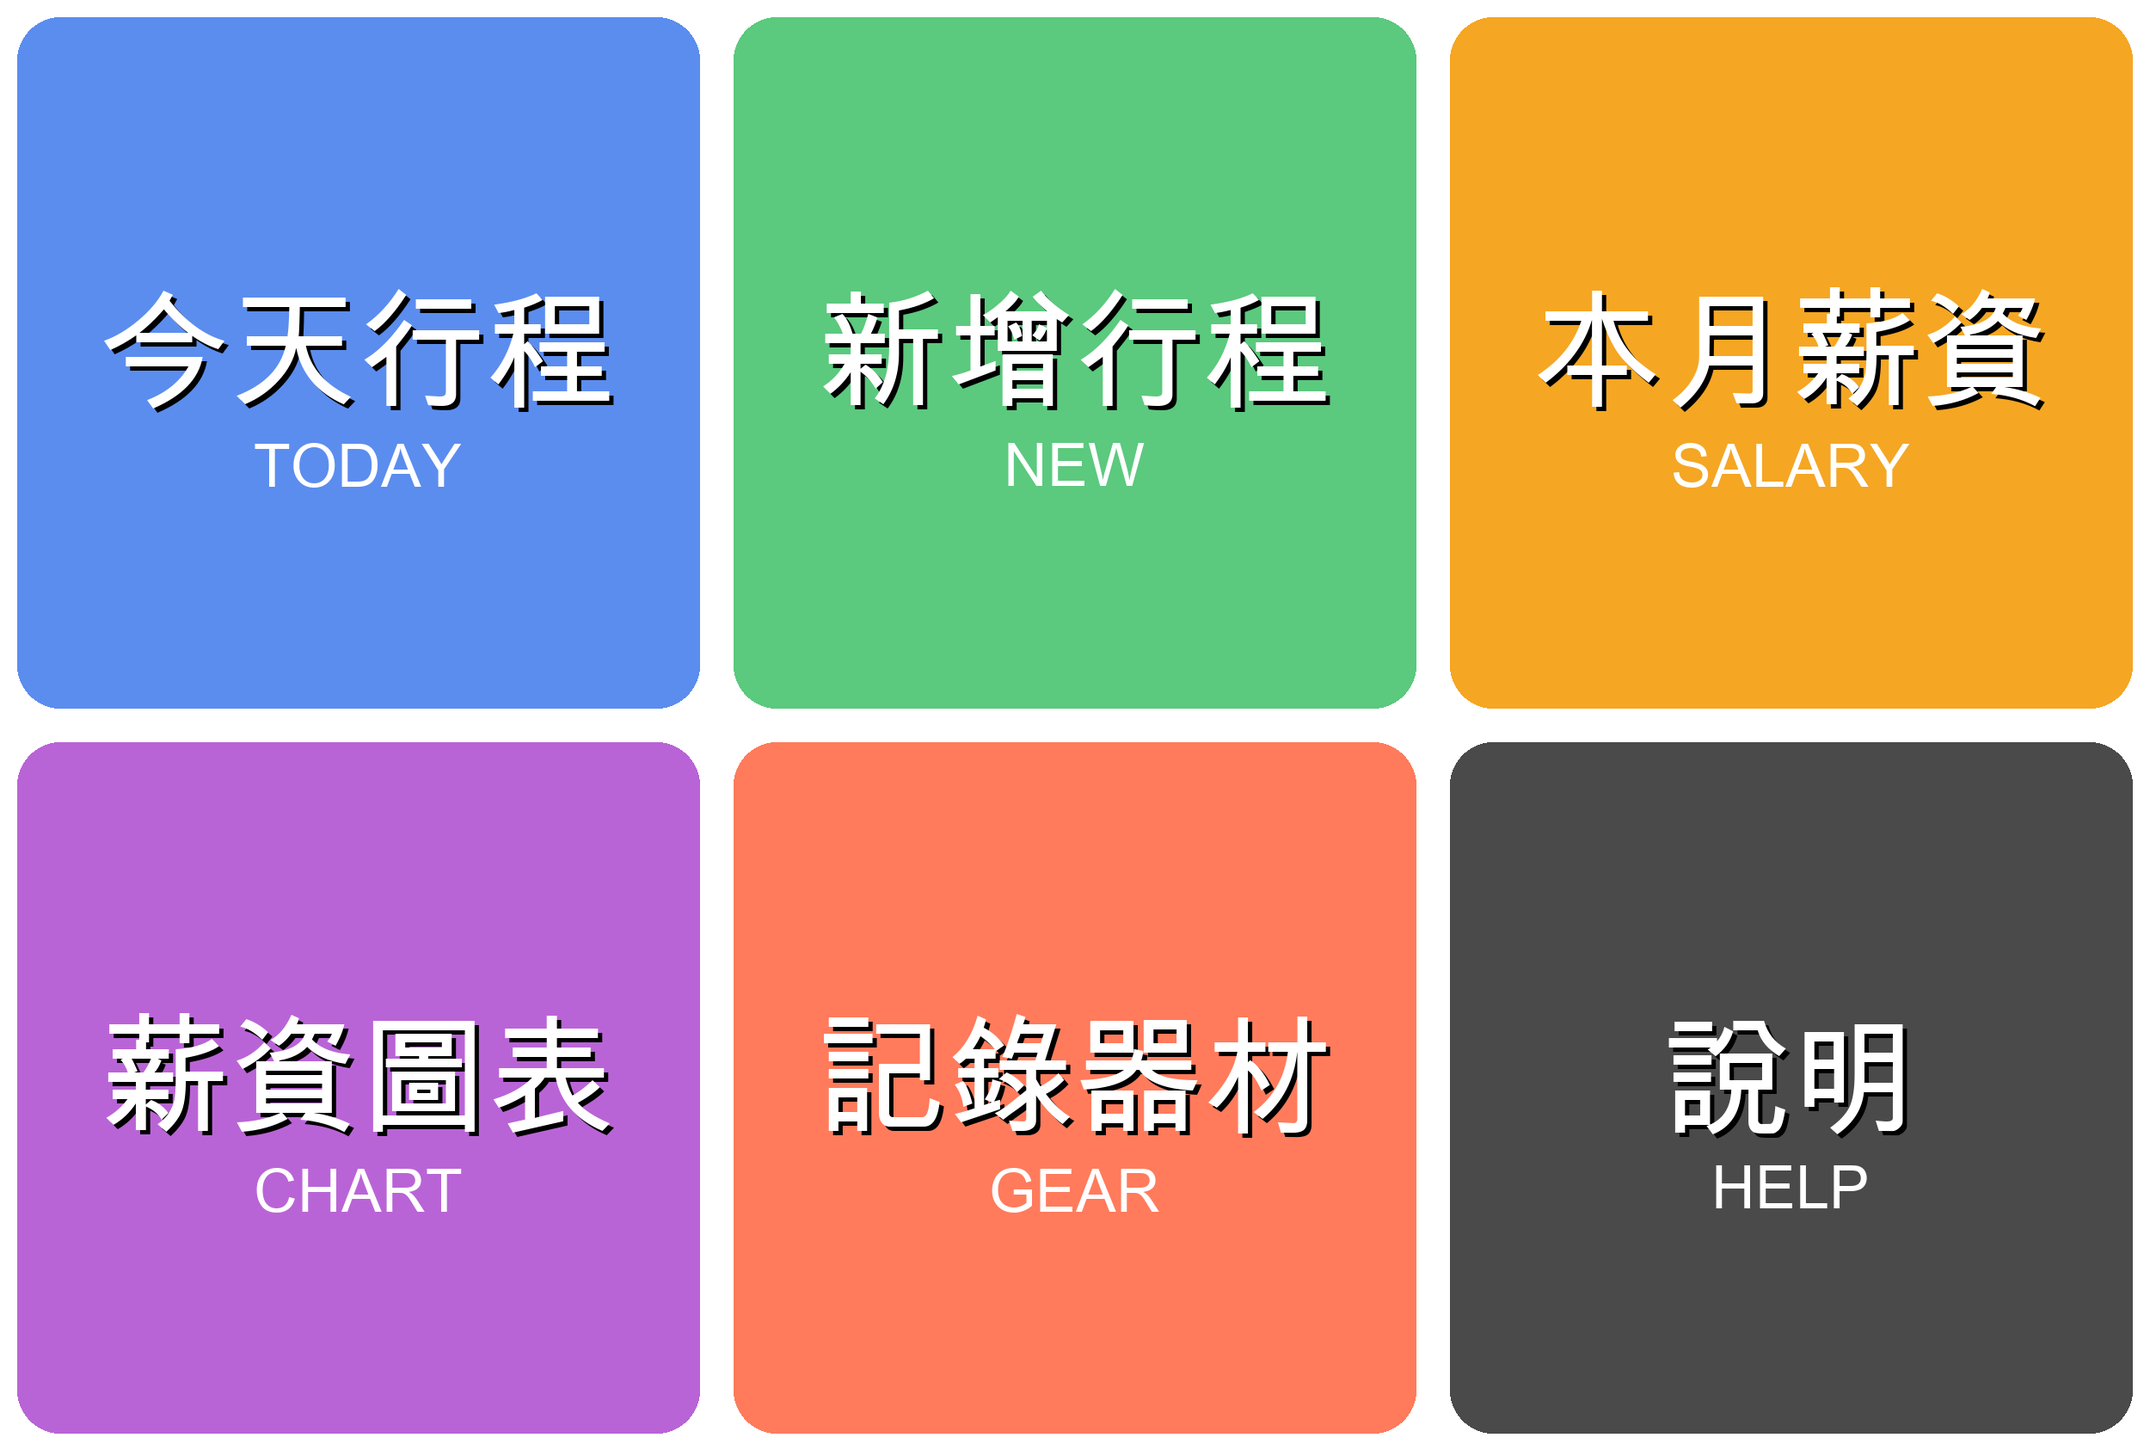
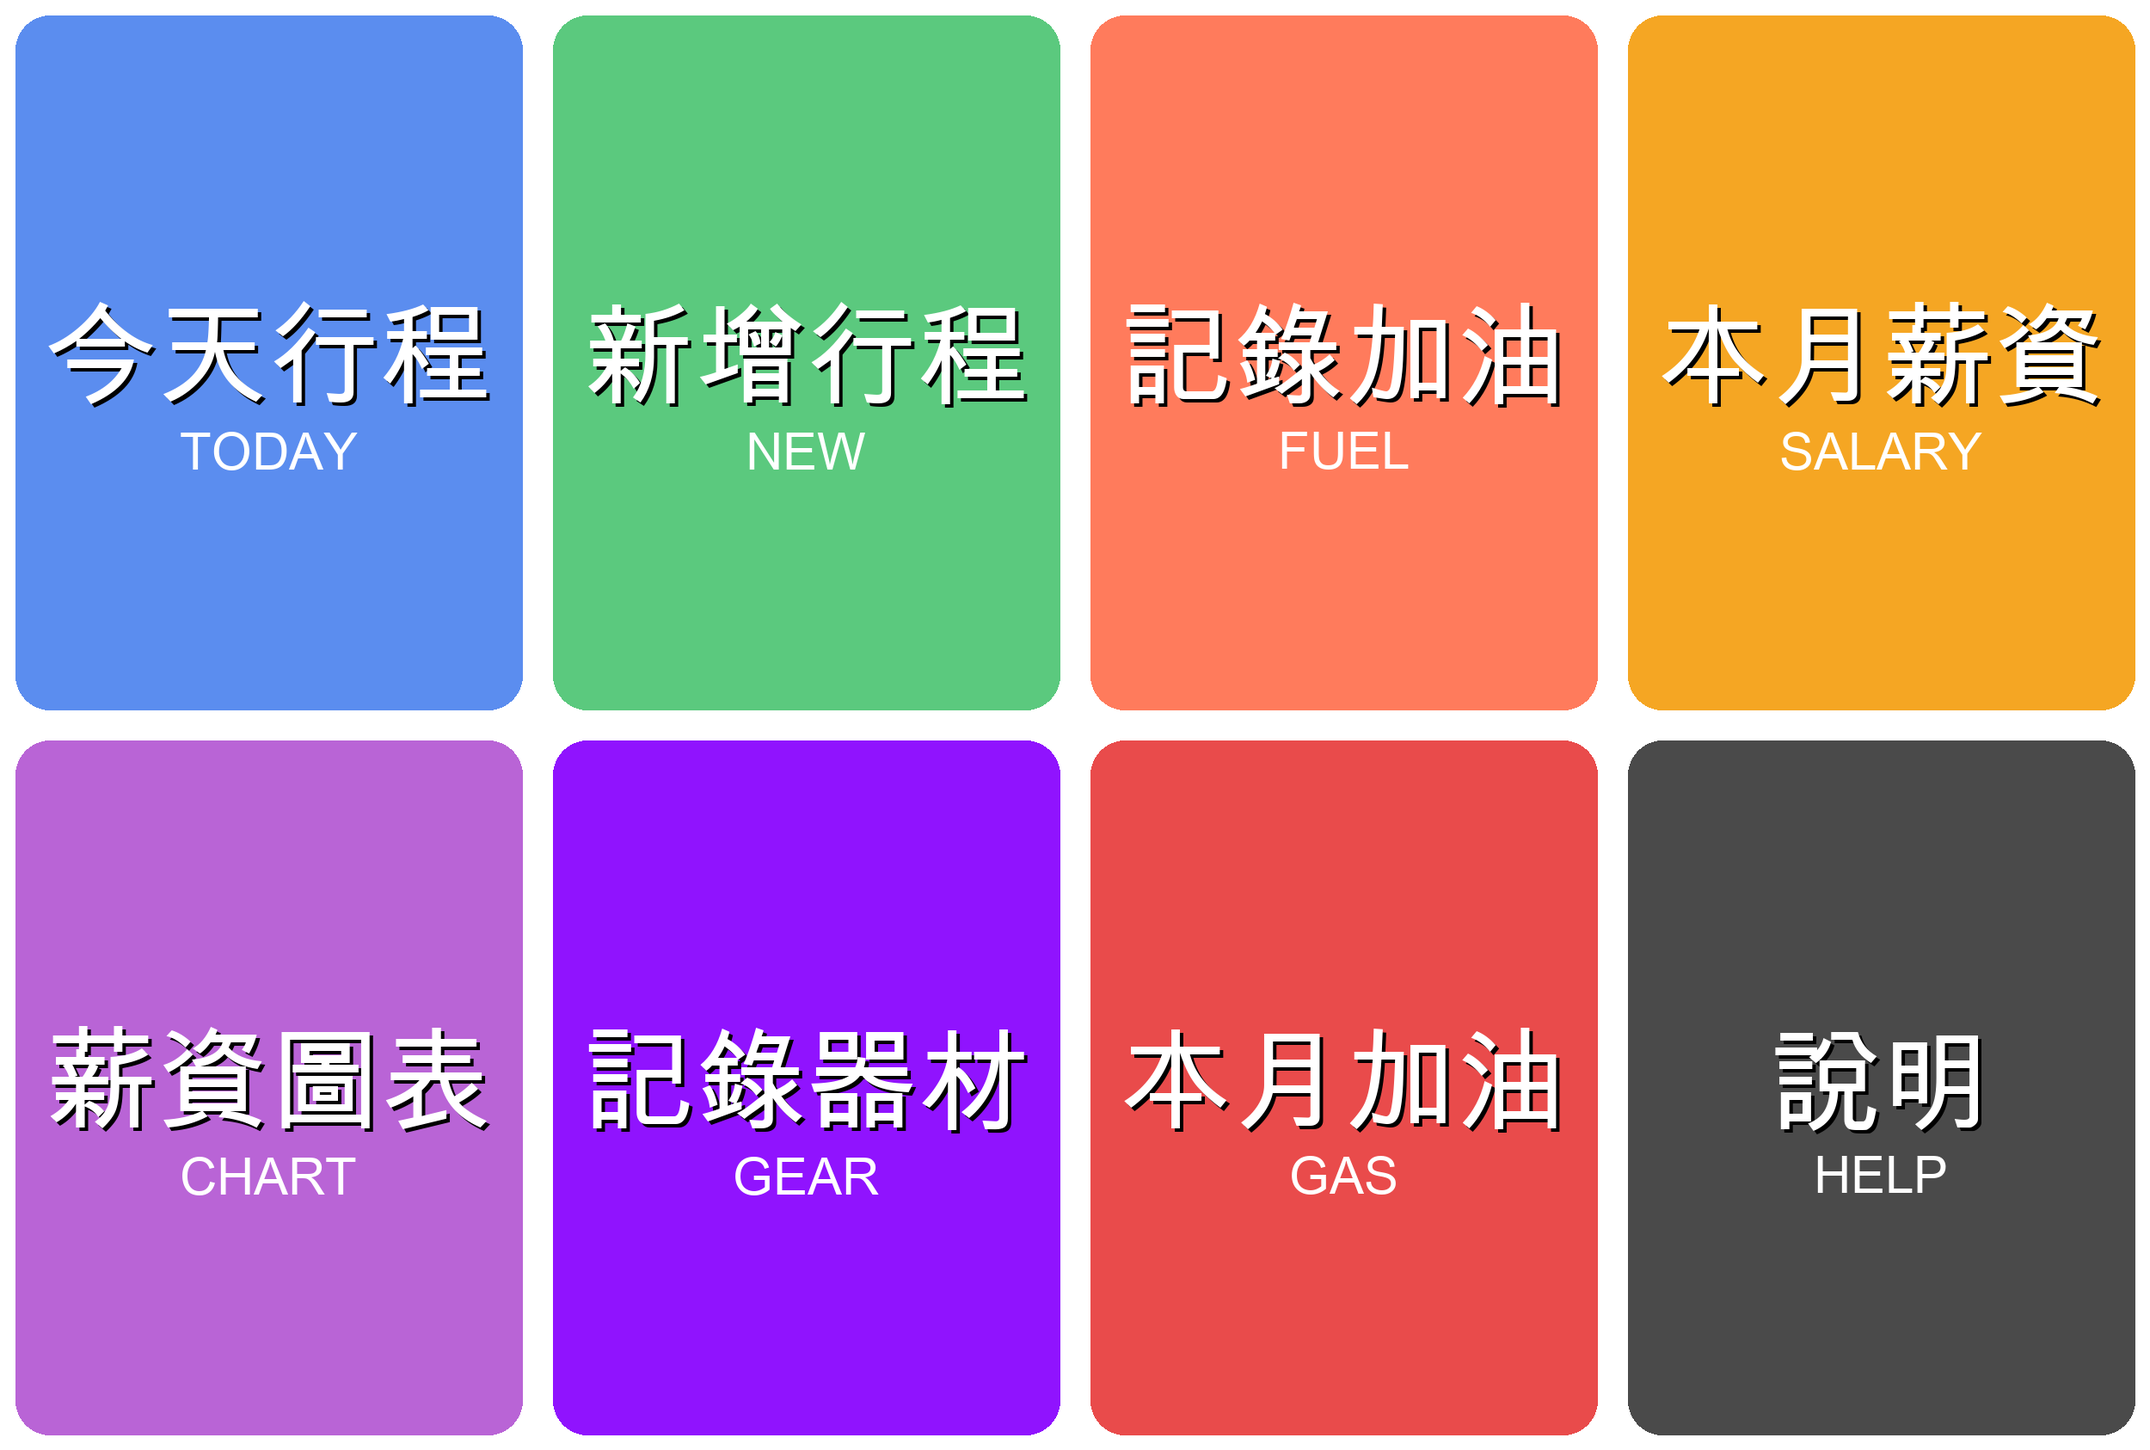
v3 升級：加油記錄 + 淨薪計算 + Rich Menu 4x2 八格
加油功能：
- 新增 fuel.py：寫入 Google Sheets「加油」分頁
- 互動式記錄流程：里程 → 油量 → 金額 → 加油站
- 「本月加油」摘要：每筆 + 總額 + 平均油耗 km/L

薪資升級：
- monthly_summary 加入毛薪/油費/淨薪計算
- monthly_chart 視覺長條圖含油費對比

Rich Menu：
- 3x2 升級為 4x2（8 格）
- 新增「記錄加油」「本月加油」按鈕
- 整體配色更豐富

diff --git a/main.py b/main.py
@@ -20,6 +20,7 @@ from calendar_add import add_event
 from calendar_delete import list_upcoming, delete_event, find_and_delete
 from ai_chat import ask_ai
 from salary import monthly_summary, list_prices, monthly_chart
+from fuel import save_fuel, monthly_summary as fuel_monthly_summary, monthly_total as fuel_monthly_total
 
 app = Flask(__name__)
 configuration = Configuration(access_token=os.environ['LINE_CHANNEL_ACCESS_TOKEN'])
@@ -78,8 +79,12 @@ def process(user_id, text):
             '🔸 刪除行程 → 列出可刪行程\n'
             '🔸 刪除行程 5/27 16:15 輔大自主課（直接刪）\n\n'
             '💰 薪資\n'
-            '🔸 本月薪資 / 上月薪資\n'
+            '🔸 本月薪資 / 上月薪資（含淨薪）\n'
+            '🔸 薪資圖表 → 視覺化\n'
             '🔸 價目表 → 查目前價格設定\n\n'
+            '⛽ 加油\n'
+            '🔸 記錄加油 → 開始新增\n'
+            '🔸 本月加油 → 月度摘要 + 油耗\n\n'
             '🧰 器材記錄\n'
             '🔸 記錄器材 → 開始新增\n'
             '🔸 查看記錄 → 最近5筆\n'
@@ -103,6 +108,13 @@ def process(user_id, text):
 
     if text in ('薪資圖表', '圖表', '本月圖表', '薪資視覺化', '視覺化'):
         return monthly_chart()
+
+    if text in ('本月加油', '加油記錄', '查加油', '看加油'):
+        return fuel_monthly_summary()
+
+    if text in ('記錄加油', '紀錄加油', '加油', '新增加油'):
+        db.set_state(user_id, 'waiting_fuel_mileage', None, None)
+        return '⛽ 開始記錄加油\n\n1⃣ 目前里程？（例如：56000）'
 
     if text in ('今天行程', '今天', '查行程', '行程', '今日行程'):
         return query_schedule(0)
@@ -163,6 +175,8 @@ def process(user_id, text):
             return monthly_summary(prev.year, prev.month)
         if keyword in ('價目表', '價格'):
             return list_prices()
+        if keyword in ('加油', '本月加油', '油費'):
+            return fuel_monthly_summary()
         return search_records(user_id, keyword)
 
     if text in ('刪除最後一筆', '刪除'):
@@ -205,6 +219,52 @@ def process(user_id, text):
         db.clear_state(user_id)
         return '已取消刪除。'
 
+    if state == 'waiting_fuel_mileage':
+        try:
+            mileage = int(float(text.replace(',', '').replace('km', '').strip()))
+        except ValueError:
+            return '⚠ 里程要是數字，例如：56000\n（或說「取消」中止）'
+        db.set_state(user_id, 'waiting_fuel_liters', _json.dumps({'mileage': mileage}), None)
+        return f'✅ 里程：{mileage:,} km\n\n2⃣ 加了幾公升？（例如：38）'
+
+    if state == 'waiting_fuel_liters':
+        try:
+            liters = float(text.replace('L', '').replace('l', '').strip())
+        except ValueError:
+            return '⚠ 公升要是數字，例如：38\n（或說「取消」中止）'
+        data = _json.loads(db.get_temp_week(user_id) or '{}')
+        data['liters'] = liters
+        db.set_state(user_id, 'waiting_fuel_amount', _json.dumps(data), None)
+        return f'✅ 油量：{liters} L\n\n3⃣ 總金額？（例如：1800）'
+
+    if state == 'waiting_fuel_amount':
+        try:
+            amount = int(float(text.replace('$', '').replace(',', '').replace('元', '').strip()))
+        except ValueError:
+            return '⚠ 金額要是數字，例如：1800\n（或說「取消」中止）'
+        data = _json.loads(db.get_temp_week(user_id) or '{}')
+        data['amount'] = amount
+        db.set_state(user_id, 'waiting_fuel_station', _json.dumps(data), None)
+        return f'✅ 金額：${amount:,}\n\n4⃣ 加油站？（直接說「無」可跳過）'
+
+    if state == 'waiting_fuel_station':
+        data = _json.loads(db.get_temp_week(user_id) or '{}')
+        station = '' if text in ('無', '跳過', '無') else text
+        try:
+            save_fuel(data['mileage'], data['liters'], data['amount'], station)
+        except Exception as ex:
+            db.clear_state(user_id)
+            return f'⚠ 寫入失敗：{ex}'
+        db.clear_state(user_id)
+        station_str = f'\n⛽ {station}' if station else ''
+        return (
+            f'✅ 加油記錄完成！\n\n'
+            f'📏 里程：{data["mileage"]:,} km\n'
+            f'🛢 油量：{data["liters"]} L\n'
+            f'💰 金額：${data["amount"]:,}{station_str}\n\n'
+            '說「本月加油」可看月度摘要'
+        )
+
     if state == 'waiting_week':
         db.set_state(user_id, 'waiting_tools', text, None)
         return f'✅ 日期：{text}\n\n🧰 這週用了哪些教具？\n（多個教具用頓號分隔，例如：呼拉圈、跳繩、平衡板）'
@@ -229,12 +289,12 @@ def process(user_id, text):
         )
 
     # 像在做動作但格式不對的明顯指令，給格式提示，不要丟給 AI 演戲
-    if text.startswith(('新增', '加', '建立', '幫我加', '幫我新增')):
-        return ('⚠ 指令格式不完整，無法新增。\n\n'
-                '✅ 新增行程範例：\n'
-                '新增行程 5/27 16:15 輔大自主課\n\n'
-                '✅ 新增器材記錄：\n'
-                '記錄器材')
+    if (text.startswith(('新增', '加', '建立', '幫我加', '幫我新增'))
+            and not text.startswith('加油')):
+        return ('⚠ 指令格式不完整。\n\n'
+                '✅ 新增行程：\n新增行程 5/27 16:15 輔大自主課\n\n'
+                '✅ 記錄器材：記錄器材\n'
+                '✅ 記錄加油：記錄加油')
 
     # 任何不認識的訊息交給 AI
     return ask_ai(text)

diff --git a/fuel.py b/fuel.py
@@ -1,0 +1,102 @@
+from datetime import datetime, timezone, timedelta
+from sheets_helper import read_all, append_row
+
+TAIWAN_TZ = timezone(timedelta(hours=8))
+FUEL_SHEET = '加油'
+
+
+def _parse_date(s):
+    s = (s or '').strip()
+    for fmt in ('%Y/%m/%d', '%Y-%m-%d'):
+        try:
+            return datetime.strptime(s, fmt)
+        except ValueError:
+            continue
+    return None
+
+
+def save_fuel(mileage, liters, amount, station='', notes=''):
+    append_row(FUEL_SHEET, {
+        '日期': datetime.now(TAIWAN_TZ).strftime('%Y/%m/%d'),
+        '里程': mileage,
+        '公升': liters,
+        '金額': amount,
+        '加油站': station,
+        '備註': notes,
+    })
+
+
+def monthly_total(year=None, month=None):
+    """回傳 (本月總金額, 本月總公升, 加油次數)"""
+    now = datetime.now(TAIWAN_TZ)
+    year = year or now.year
+    month = month or now.month
+    rows = read_all(FUEL_SHEET)
+    total_amt = 0
+    total_l = 0.0
+    count = 0
+    for row in rows:
+        d = _parse_date(row.get('日期'))
+        if not d or d.year != year or d.month != month:
+            continue
+        try:
+            total_amt += int(float(str(row.get('金額', '0')).strip() or 0))
+            total_l += float(str(row.get('公升', '0')).strip() or 0)
+            count += 1
+        except (ValueError, TypeError):
+            continue
+    return total_amt, total_l, count
+
+
+def monthly_summary(year=None, month=None):
+    """本月加油摘要 + 油耗。"""
+    now = datetime.now(TAIWAN_TZ)
+    year = year or now.year
+    month = month or now.month
+
+    all_rows = read_all(FUEL_SHEET)
+    # 按日期排序所有資料以正確計算里程差
+    parsed = []
+    for r in all_rows:
+        d = _parse_date(r.get('日期'))
+        if not d:
+            continue
+        try:
+            m = float(str(r.get('里程', '0')).strip() or 0)
+            l = float(str(r.get('公升', '0')).strip() or 0)
+            a = int(float(str(r.get('金額', '0')).strip() or 0))
+        except (ValueError, TypeError):
+            continue
+        parsed.append((d, m, l, a, r.get('加油站', '')))
+    parsed.sort(key=lambda x: x[0])
+
+    month_records = [(d, m, l, a, s) for d, m, l, a, s in parsed
+                     if d.year == year and d.month == month]
+    if not month_records:
+        return f'⛽ {year}/{month:02d} 還沒有加油記錄'
+
+    lines = [f'⛽ {year}/{month:02d} 加油摘要', '']
+    total_amt = 0
+    total_l = 0.0
+    for i, (d, m, l, a, s) in enumerate(month_records):
+        idx_all = parsed.index((d, m, l, a, s))
+        consumption = ''
+        if idx_all > 0:
+            prev = parsed[idx_all - 1]
+            diff = m - prev[1]
+            if l > 0 and 0 < diff < 2000:
+                consumption = f'  ({diff/l:.1f} km/L)'
+        station_str = f' @{s}' if s else ''
+        lines.append(f'{d.strftime("%m/%d")} {int(m):,}km {l:.1f}L ${a:,}{station_str}{consumption}')
+        total_amt += a
+        total_l += l
+    lines.append('')
+    lines.append('━━━━━━━━━━')
+    lines.append(f'⛽ 共 {len(month_records)} 次｜{total_l:.1f}L｜${total_amt:,}')
+    if len(month_records) >= 2:
+        first_m = month_records[0][1]
+        last_m = month_records[-1][1]
+        avg_consumption = (last_m - first_m) / total_l if total_l > 0 else 0
+        if 0 < avg_consumption < 100:
+            lines.append(f'📏 平均油耗：{avg_consumption:.1f} km/L')
+    return '\n'.join(lines)

diff --git a/generate_richmenu_image.py b/generate_richmenu_image.py
@@ -4,15 +4,17 @@
 from PIL import Image, ImageDraw, ImageFont
 
 WIDTH, HEIGHT = 2500, 1686
-COLS, ROWS = 3, 2
+COLS, ROWS = 4, 2
 CELL_W, CELL_H = WIDTH // COLS, HEIGHT // ROWS
 
 CELLS = [
     ('TODAY',  '今天行程',  '#5B8DEF'),
     ('NEW',    '新增行程',  '#5BC97E'),
+    ('FUEL',   '記錄加油',  '#FF7B5C'),
     ('SALARY', '本月薪資',  '#F5A623'),
     ('CHART',  '薪資圖表',  '#B964D6'),
-    ('GEAR',   '記錄器材',  '#FF7B5C'),
+    ('GEAR',   '記錄器材',  '#9013FE'),
+    ('GAS',    '本月加油',  '#E94B4B'),
     ('HELP',   '說明',      '#4A4A4A'),
 ]
 
@@ -23,38 +25,36 @@ def main():
     img = Image.new('RGB', (WIDTH, HEIGHT), 'white')
     draw = ImageDraw.Draw(img)
 
-    label_font = ImageFont.truetype(FONT_PATH, 150)
-    sub_font = ImageFont.truetype(FONT_PATH, 70)
+    label_font = ImageFont.truetype(FONT_PATH, 130)
+    sub_font = ImageFont.truetype(FONT_PATH, 60)
 
     for i, (en, label, color) in enumerate(CELLS):
         col, row = i % COLS, i // COLS
         x0, y0 = col * CELL_W, row * CELL_H
         x1, y1 = x0 + CELL_W, y0 + CELL_H
 
-        pad = 20
+        pad = 18
         draw.rounded_rectangle(
             (x0 + pad, y0 + pad, x1 - pad, y1 - pad),
-            radius=50, fill=color
+            radius=40, fill=color
         )
 
-        # 中文主標籤
         lbox = draw.textbbox((0, 0), label, font=label_font)
         lw, lh = lbox[2] - lbox[0], lbox[3] - lbox[1]
         lx = x0 + (CELL_W - lw) // 2
-        ly = y0 + (CELL_H - lh) // 2 - 50
-        draw.text((lx + 5, ly + 5), label, font=label_font, fill='#00000044')
+        ly = y0 + (CELL_H - lh) // 2 - 40
+        draw.text((lx + 4, ly + 4), label, font=label_font, fill='#00000044')
         draw.text((lx, ly), label, font=label_font, fill='white')
 
-        # 英文副標
         sbox = draw.textbbox((0, 0), en, font=sub_font)
         sw = sbox[2] - sbox[0]
         sx = x0 + (CELL_W - sw) // 2
-        sy = ly + lh + 50
+        sy = ly + lh + 40
         draw.text((sx, sy), en, font=sub_font, fill='#FFFFFFAA')
 
     img.save('assets/richmenu.png', 'PNG', optimize=True)
     print('✅ 圖片已產生：assets/richmenu.png')
-    print(f'尺寸：{WIDTH}x{HEIGHT}')
+    print(f'尺寸：{WIDTH}x{HEIGHT}（{COLS}x{ROWS} = {COLS*ROWS} 格）')
 
 
 if __name__ == '__main__':

diff --git a/salary.py b/salary.py
@@ -1,6 +1,7 @@
 from datetime import datetime, timezone, timedelta
 from collections import defaultdict
 from sheets_helper import read_all
+from fuel import monthly_total as fuel_monthly_total
 
 TAIWAN_TZ = timezone(timedelta(hours=8))
 
@@ -49,7 +50,16 @@ def monthly_summary(year=None, month=None):
         lines.append(f'• {title} × {info["count"]} = ${info["amount"]:,}')
     lines.append('')
     lines.append(f'📚 共 {count} 堂課')
-    lines.append(f'💵 合計：${total:,}')
+    lines.append(f'💵 毛薪：${total:,}')
+
+    try:
+        fuel_amt, fuel_l, fuel_n = fuel_monthly_total(year, month)
+    except Exception:
+        fuel_amt, fuel_n = 0, 0
+    if fuel_amt > 0:
+        net = total - fuel_amt
+        lines.append(f'⛽ 油費：−${fuel_amt:,}（{fuel_n} 次）')
+        lines.append(f'💎 淨薪：${net:,}')
     return '\n'.join(lines)
 
 
@@ -92,8 +102,21 @@ def monthly_chart(year=None, month=None):
         lines.append(f'{title}')
         lines.append(f'{bar} ${info["amount"]:,} ({info["count"]}堂)')
         lines.append('')
+    try:
+        fuel_amt, _, fuel_n = fuel_monthly_total(year, month)
+    except Exception:
+        fuel_amt, fuel_n = 0, 0
+    if fuel_amt > 0:
+        bar_len_fuel = max(1, round(fuel_amt / max_amount * bar_max))
+        lines.append('⛽ 油費')
+        lines.append(f'{"▒" * bar_len_fuel} −${fuel_amt:,} ({fuel_n}次)')
+        lines.append('')
+
     lines.append('━━━━━━━━━━')
-    lines.append(f'💵 合計：${total:,} / {count} 堂')
+    lines.append(f'💵 毛薪：${total:,} / {count} 堂')
+    if fuel_amt > 0:
+        lines.append(f'⛽ 油費：−${fuel_amt:,}')
+        lines.append(f'💎 淨薪：${total - fuel_amt:,}')
     return '\n'.join(lines)
 
 

diff --git a/rich_menu.py b/rich_menu.py
@@ -8,15 +8,18 @@ LINE_DATA_API = 'https://api-data.line.me/v2/bot'
 IMAGE_PATH = os.path.join(os.path.dirname(__file__), 'assets', 'richmenu.png')
 
 WIDTH, HEIGHT = 2500, 1686
-COL_W, ROW_H = WIDTH // 3, HEIGHT // 2
+COLS, ROWS = 4, 2
+COL_W, ROW_H = WIDTH // COLS, HEIGHT // ROWS
 
 # 對應 generate_richmenu_image.py 的 CELLS 順序
 ACTIONS = [
     '今天行程',
-    '新增行程 ',   # 後面留空格提示使用者繼續輸入
+    '新增行程 ',
+    '記錄加油',
     '本月薪資',
     '薪資圖表',
     '記錄器材',
+    '本月加油',
     '說明',
 ]
 
@@ -30,11 +33,11 @@ def _headers():
 def _build_areas():
     areas = []
     for i, text in enumerate(ACTIONS):
-        col, row = i % 3, i // 3
+        col, row = i % COLS, i // COLS
         x = col * COL_W
         y = row * ROW_H
-        w = (WIDTH - x) if col == 2 else COL_W
-        h = (HEIGHT - y) if row == 1 else ROW_H
+        w = (WIDTH - x) if col == COLS - 1 else COL_W
+        h = (HEIGHT - y) if row == ROWS - 1 else ROW_H
         areas.append({
             'bounds': {'x': x, 'y': y, 'width': w, 'height': h},
             'action': {'type': 'message', 'text': text},
@@ -46,7 +49,7 @@ def _create_menu():
     body = json.dumps({
         'size': {'width': WIDTH, 'height': HEIGHT},
         'selected': True,
-        'name': 'main_menu_v1',
+        'name': 'main_menu_v2',
         'chatBarText': '選單',
         'areas': _build_areas(),
     }).encode()
